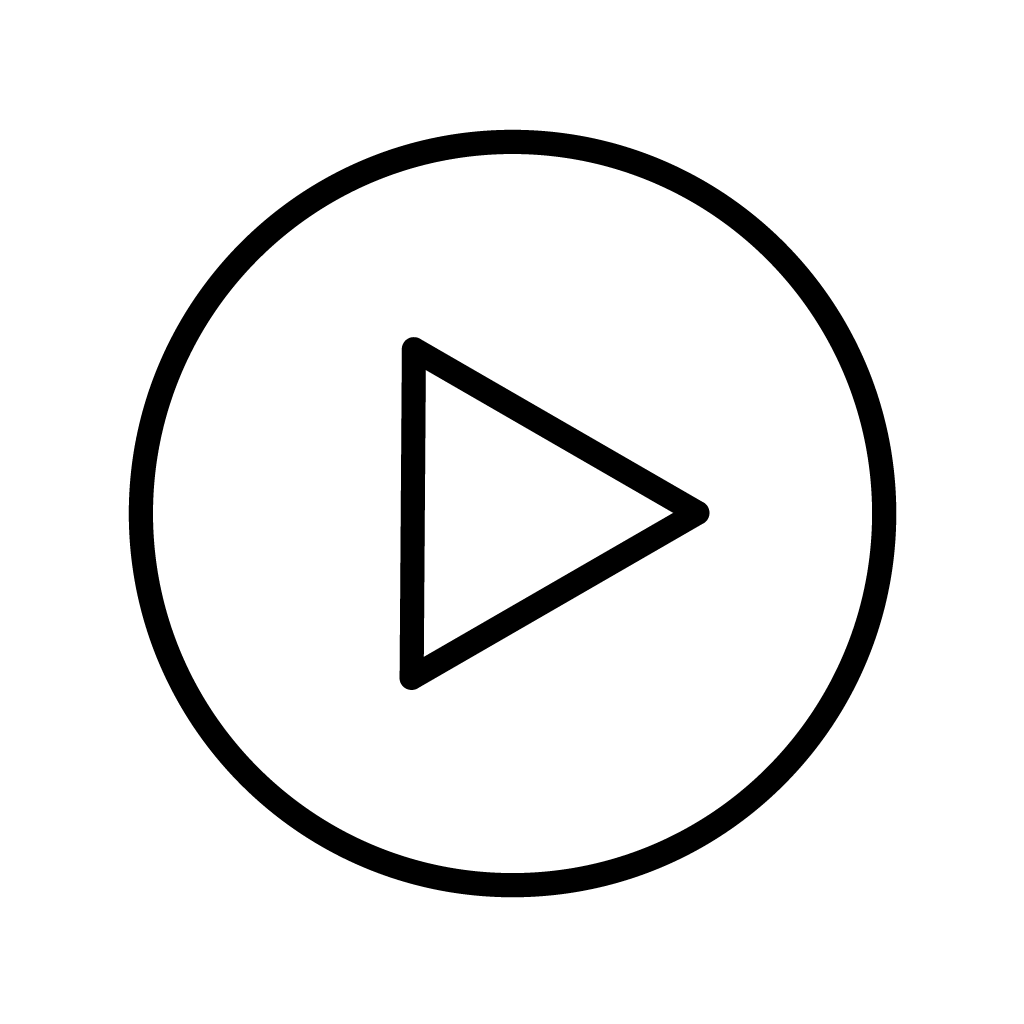
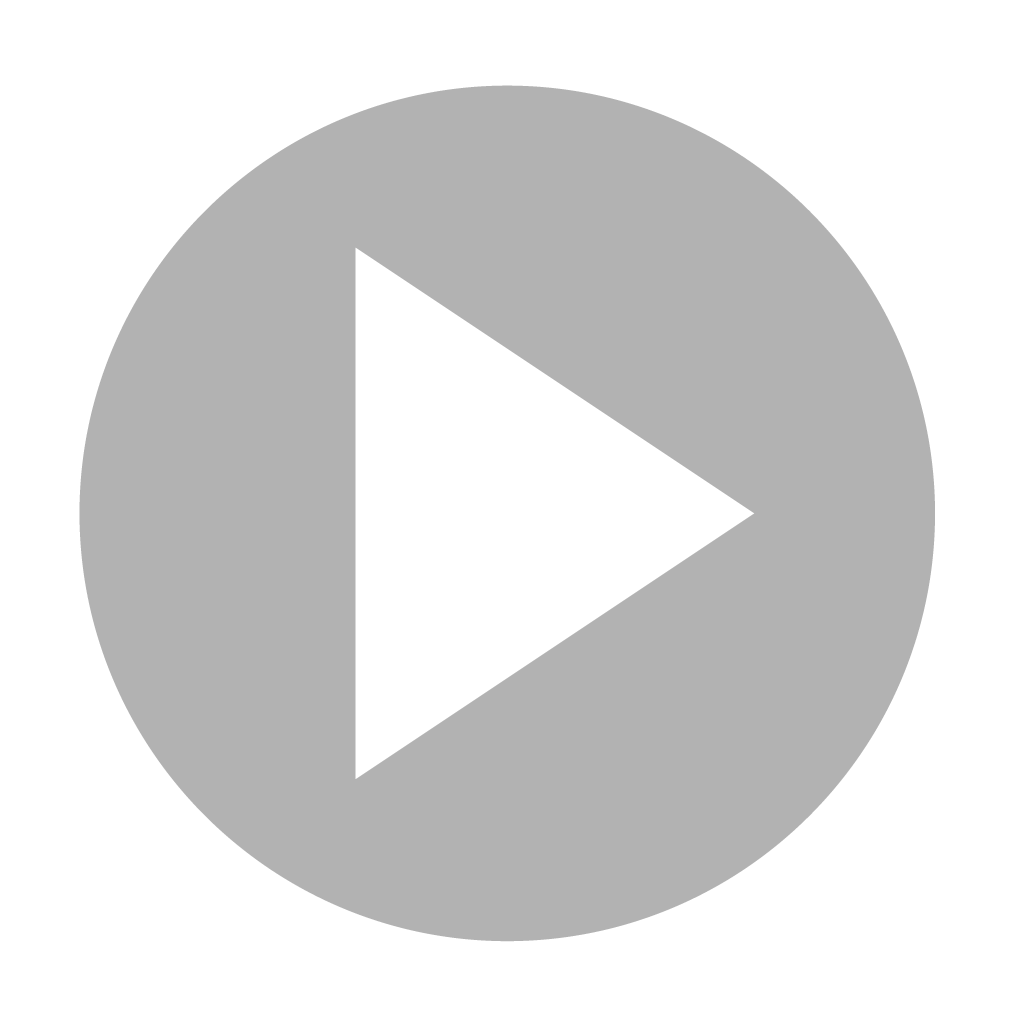
bolo

diff --git a/src/components/Header.jsx b/src/components/Header.jsx
@@ -1,12 +1,42 @@
 import React from "react";
 import { Navbar, Container, Nav } from "react-bootstrap";
 import { Link } from "react-router-dom";
+import { useDispatch, useSelector } from "react-redux";
+import { vars } from "../variables.jsx";
+import axios from "axios";
 
 const Header = () => {
+  const dispatch = useDispatch();
+  const weather = useSelector((state) => state.weather);
+
+  const getWeather = async (city) => {
+    try {
+      const response = await axios(
+        `${vars.WeatherApi}${city}&appid=${vars.apiKey}`
+      );
+      console.log(response);
+      localStorage.setItem("weather", response.data);
+      dispatch({
+        type: "SUCCESS",
+        data: response.data,
+      });
+    } catch (e) {
+      // setError("");
+      // setError(e.message);
+      dispatch({
+        type: "FAIL",
+      });
+
+      localStorage.setItem("weather", "");
+    }
+  };
+  React.useEffect(() => {
+    getWeather("tbilisi");
+  }, []);
   return (
     <Navbar bg="dark" variant="dark">
       <Container>
-        <Nav className="me-auto">
+        <Nav className="me-auto" activeKey="/">
           <Link to="/" className="nav-link">
             Home
           </Link>
@@ -18,6 +48,13 @@ const Header = () => {
           <Link to="/search" className="nav-link">
             Search
           </Link>
+          <div>
+            {Object.keys(weather).length > 0 && (
+              <span className="temp">
+                {Math.round(weather.main.temp - 273.15) + "°C"} {weather.name}
+              </span>
+            )}
+          </div>
         </Nav>
       </Container>
     </Navbar>

diff --git a/src/pages/Homepage.jsx b/src/pages/Homepage.jsx
@@ -1,7 +1,7 @@
 import React from "react";
 import axios from "axios";
 import { vars } from "../variables.jsx";
-import { Imbd } from "../images/Imbd.jsx";
+import { Movie } from "../components/Movie.jsx";
 
 const Homepage = () => {
   const [movies, setMovies] = React.useState([]);
@@ -20,35 +20,7 @@ const Homepage = () => {
   return (
     <section className="movies container">
       {movies &&
-        movies.map((movie) => (
-          <div className="movies__card" key={movie.id}>
-            <div className="movies__img">
-              <img src={Object.values(movie.covers.data)[4]} alt="movie" />
-              <div className="play">
-                <a href={movie.imdbUrl}>
-                  <img src="../images/play.png" alt="" />
-                </a>
-              </div>
-              <div className="actions">
-                <div className="langs">
-                  <span></span>
-                </div>
-              </div>
-              <div className="rates">
-                <div className="imbd">
-                  <Imbd />
-                  <span>{movie.rating.imdb.score}</span>
-                </div>
-                <div className="year">{movie.year}წ</div>
-              </div>
-            </div>
-            <div className="movies__text">
-              <a href={movie.imdbUrl}>
-                <p>{movie.originalName}</p>
-              </a>
-            </div>
-          </div>
-        ))}
+        movies.map((movie, index) => <Movie data={movie} key={movie.id} />)}
     </section>
   );
 };

diff --git a/src/pages/Search.jsx b/src/pages/Search.jsx
@@ -1,7 +1,47 @@
 import React from "react";
+import axios from "axios";
+import { Movie } from "../components/Movie.jsx";
+import { vars } from "../variables.jsx";
 
 const Search = () => {
-  return <div></div>;
+  const [inputs, setInputs] = React.useState("");
+  const handleChange = (event) => {
+    const value = event.target.value || "";
+    setInputs((values) => value);
+  };
+  const handleSubmit = async (event) => {
+    event.preventDefault();
+    let data = inputs;
+    console.log(`${vars.SearchDataUrl}${data}`);
+    try {
+      const response = await axios.get(`${vars.SearchDataUrl}${data}`, {
+        headers: {
+          "Access-Control-Allow-Origin": "*",
+          "Content-Type": "application/x-www-form-urlencoded; charset=UTF-8;",
+        },
+      });
+
+      event.target.reset();
+    } catch (e) {
+      console.log(e);
+    }
+  };
+  return (
+    <section className="container search-page">
+      <form className="bg-dark" onSubmit={handleSubmit}>
+        <input
+          type="text"
+          placeholder="საძიებო სიტყვა..."
+          name="name"
+          onChange={handleChange}
+        />
+        <button value="submit" type="submit">
+          ძიება
+        </button>
+        <div className="movies"></div>
+      </form>
+    </section>
+  );
 };
 
 export default Search;

diff --git a/src/components/Movie.jsx b/src/components/Movie.jsx
@@ -1,0 +1,31 @@
+import React from "react";
+import { Imbd } from "../images/Imbd.jsx";
+import image from "../images/play.png";
+
+export const Movie = (props) => {
+  console.log(props);
+  return (
+    <div className="movies__card">
+      <div className="movies__img">
+        <img src={Object.values(props.data.covers.data)[4]} alt="movie" />
+        <div className="play">
+          <a href={props.data.imdbUrl}>
+            <img src={image} alt="" />
+          </a>
+        </div>
+        <div className="rates">
+          <div className="imbd">
+            <Imbd />
+            <span>{props.data.rating.imdb.score}</span>
+          </div>
+          <div className="year">{props.data.year}წ</div>
+        </div>
+      </div>
+      <div className="movies__text">
+        <a href={props.data.imdbUrl}>
+          <p>{props.data.originalName}</p>
+        </a>
+      </div>
+    </div>
+  );
+};

diff --git a/src/pages/About.jsx b/src/pages/About.jsx
@@ -1,7 +1,21 @@
 import React from "react";
 
 const About = () => {
-  return <div></div>;
+  return (
+    <div className="container" style={{ marginTop: "3vh" }}>
+      <h1 style={{ color: "white", fontSize: "46px" }}>About us</h1>
+      <br />
+      <p style={{ color: "white", fontSize: "20px" }}>
+        Lorem, ipsum dolor sit amet consectetur adipisicing elit. Sapiente unde,
+        assumenda ipsa atque, facere vel doloremque itaque eaque eos aliquid
+        consectetur molestiae eveniet expedita doloribus dolorem praesentium
+        tempora minus ipsam! Lorem ipsum dolor sit amet consectetur adipisicing
+        elit. Distinctio architecto sed accusamus maxime, quisquam optio ipsum
+        magnam delectus quas, mollitia harum, tenetur modi minus in voluptatem!
+        Hic adipisci inventore vel?
+      </p>
+    </div>
+  );
 };
 
 export default About;

diff --git a/src/index.js b/src/index.js
@@ -4,10 +4,20 @@ import { BrowserRouter } from "react-router-dom";
 import "./style/style.scss";
 import "bootstrap/dist/css/bootstrap.min.css";
 import App from "./App";
+import { createStore } from "redux";
+import allReducers from "./reducers";
+import { Provider } from "react-redux";
+
+const store = createStore(
+  allReducers,
+  window.__REDUX_DEVTOOLS_EXTENSION__ && window.__REDUX_DEVTOOLS_EXTENSION__()
+);
 
 ReactDOM.render(
-  <BrowserRouter>
-    <App />
-  </BrowserRouter>,
+  <Provider store={store}>
+    <BrowserRouter>
+      <App />
+    </BrowserRouter>
+  </Provider>,
   document.getElementById("root")
 );

diff --git a/src/style/_search-page.scss b/src/style/_search-page.scss
@@ -1,0 +1,30 @@
+.search-page {
+  margin-top: 3vh;
+  form {
+    margin: 0 auto;
+    width: 80%;
+    height: 55px;
+    display: flex;
+    align-items: center;
+    border-radius: 30px;
+
+    input {
+      padding: 0 20px;
+      background: transparent;
+      outline: none;
+      border: none;
+      flex-grow: 1;
+      color: white;
+    }
+    button {
+      background: #ff4343;
+      width: 20%;
+      border-radius: 30px;
+      margin: 5px 0;
+      height: calc(100% - 10px);
+      border: none;
+      outline: none;
+      color: white;
+    }
+  }
+}

diff --git a/src/style/_movies.scss b/src/style/_movies.scss
@@ -22,6 +22,13 @@
   &__card {
     position: relative;
     min-height: 1px;
+
+    &:hover {
+      .play {
+        opacity: 1;
+        visibility: visible;
+      }
+    }
   }
   &__img {
     width: 100%;
@@ -52,16 +59,12 @@
         width: 100%;
         height: 100%;
 
-        svg {
-          width: 50px;
-          height: 50px;
-          path {
-            fill: #fff;
-          }
+        img {
+          position: static;
+          width: 30%;
+          height: unset;
         }
       }
-    }
-    .actions {
     }
     .rates {
       width: 100%;

diff --git a/src/variables.jsx b/src/variables.jsx
@@ -1,6 +1,7 @@
 export const vars = {
   MoviesDataUrl: "https://api.imovies.cc/api/v1/trailers/trailer-day",
   SearchDataUrl: "https://movie.ge/Api/WebService/search/",
-  WeatherApi: "https://api.openweathermap.org/data/2.5",
+  WeatherApi: "https://api.openweathermap.org/data/2.5/weather?q=",
   ImdbUrl: "https://www.imdb.com/title",
+  apiKey: "0b737e7d56fd56e1ba7f7c1c2eddc31a",
 };

diff --git a/src/reducers/weather.jsx b/src/reducers/weather.jsx
@@ -1,0 +1,12 @@
+const weatherReducer = (state = {}, action) => {
+  switch (action.type) {
+    case "SUCCESS":
+      return action.data;
+    case "FAIL":
+      return {};
+    default:
+      return state;
+  }
+};
+
+export default weatherReducer;

diff --git a/src/reducers/index.js b/src/reducers/index.js
@@ -1,0 +1,8 @@
+import { combineReducers } from "redux";
+import weatherReducer from "./weather";
+
+const allReducers = combineReducers({
+  weather: weatherReducer,
+});
+
+export default allReducers;

diff --git a/src/style/style.scss b/src/style/style.scss
@@ -1,3 +1,4 @@
 @import "normalize";
 @import "media";
 @import "movies";
+@import "search-page";
